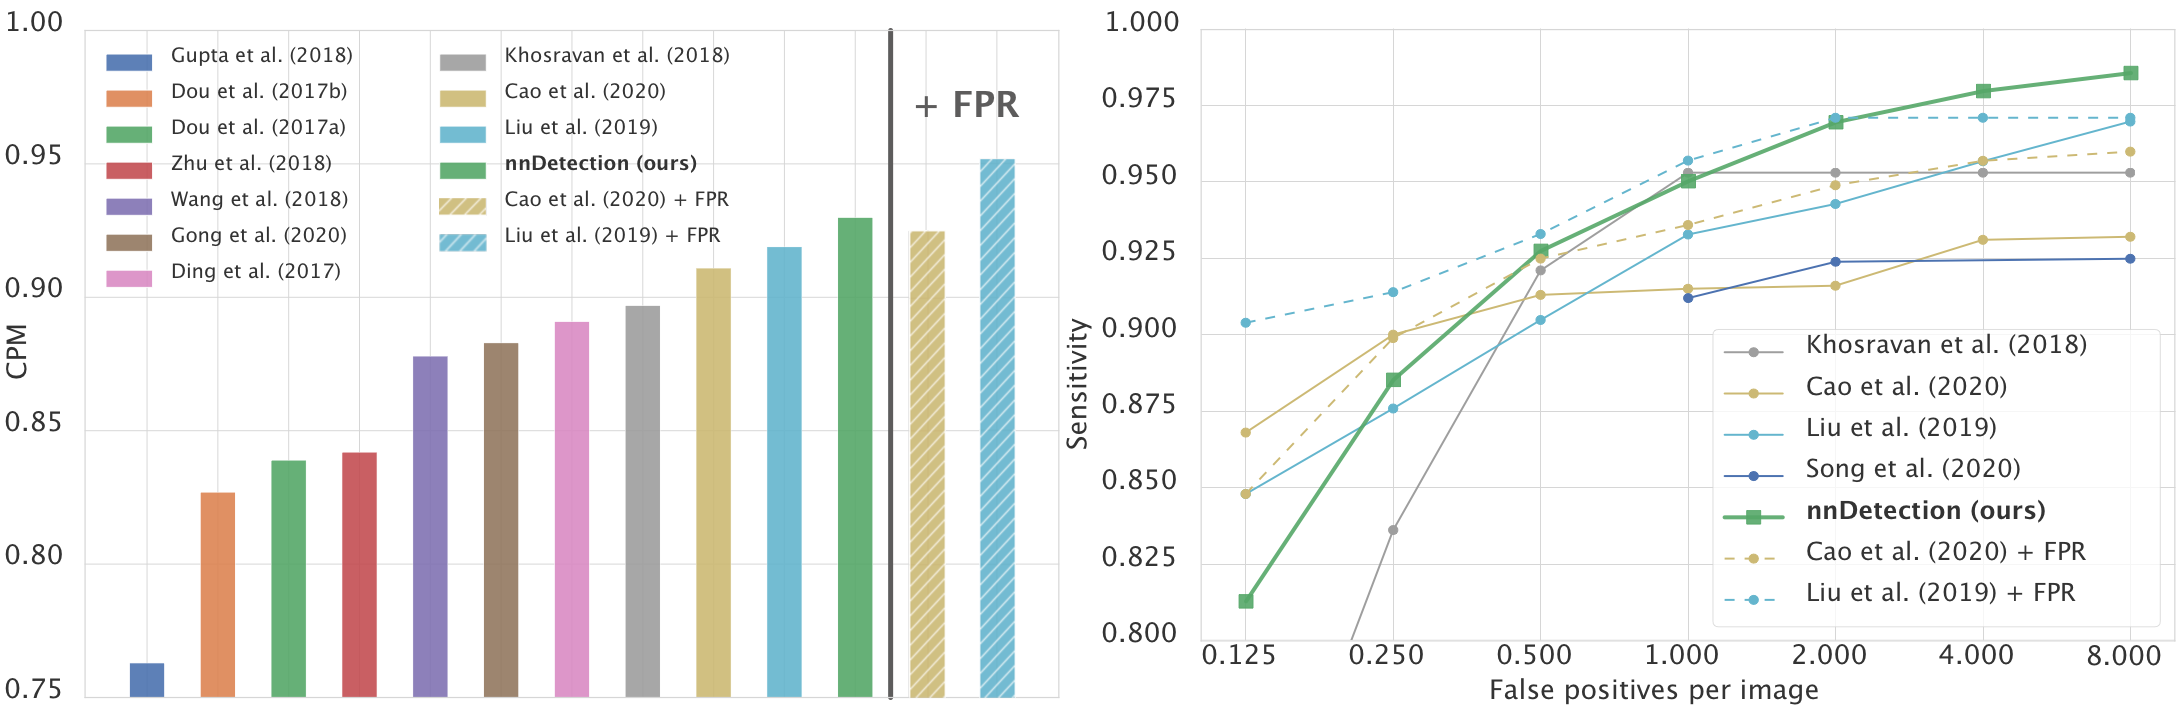
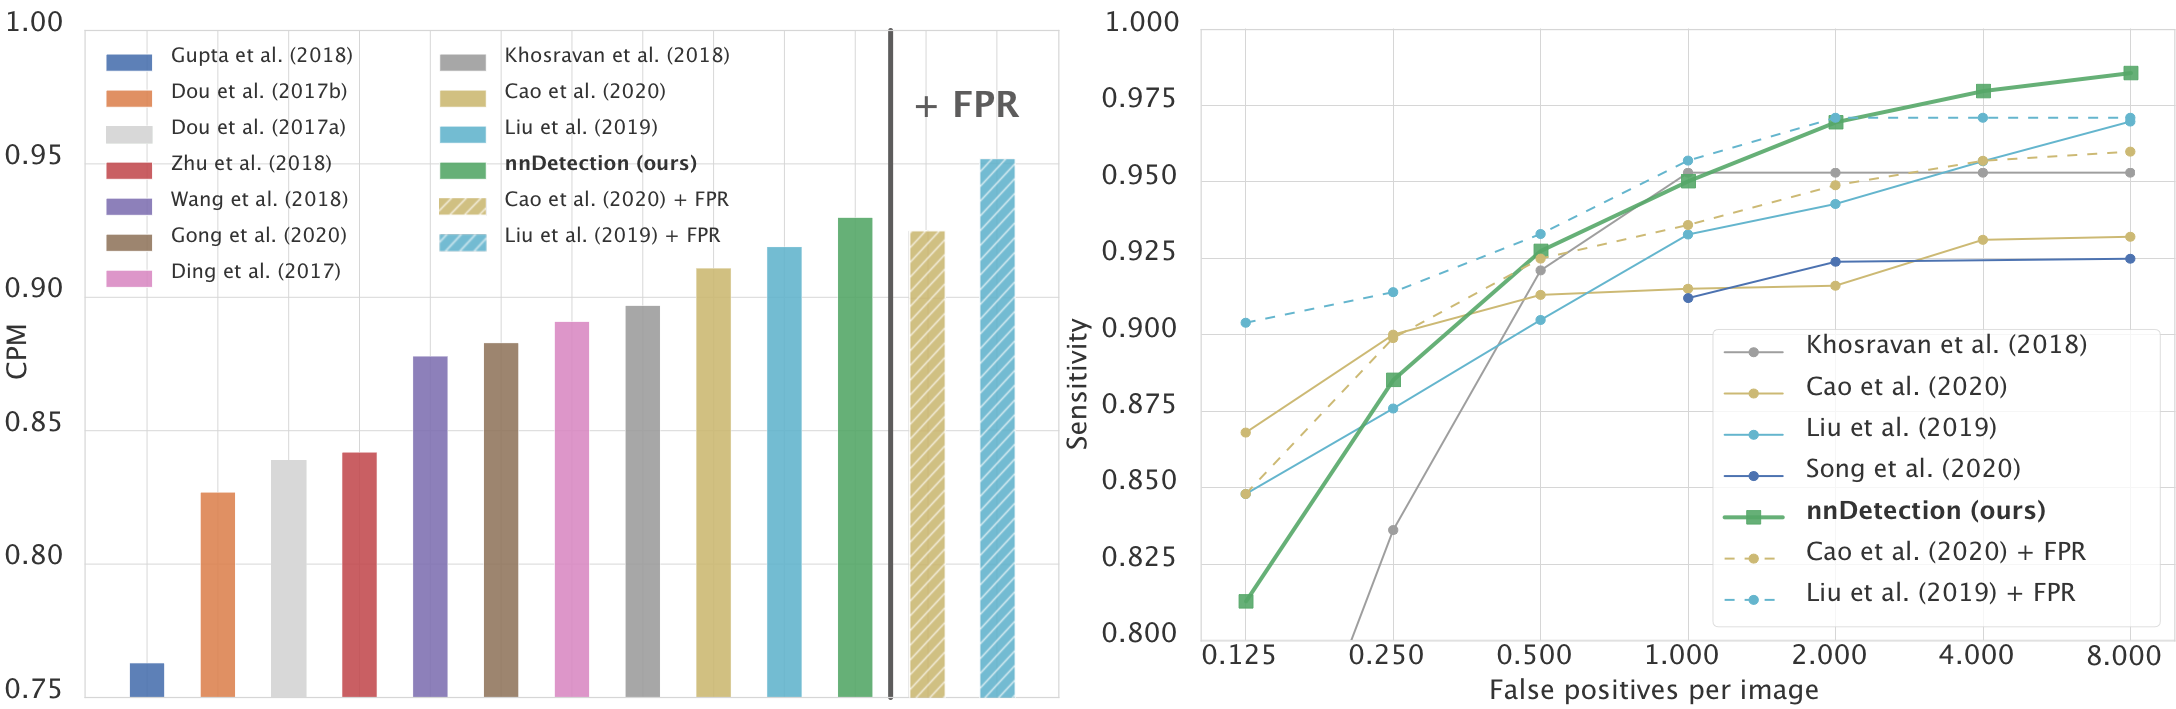
Add detailed Luna results

Changed region(s): [[0.125, 0.6516, 0.1562, 0.9929], [0.0312, 0.1551, 0.0938, 0.2172]]

diff --git a/docs/results/nnDetectionV001.md b/docs/results/nnDetectionV001.md
@@ -72,20 +72,49 @@ Luna results are listed under Benchmarks
 
 ## Benchmarks
 ### Luna
+Disclaimer:
+This overview reflects the literature upon submission of nnDetection (March 2021).
+It will not be updated with newer methods and can not replace a thorough literature research of future work.
 
 <div align="center">
 
 <img src=./source/v001/luna.png width="800px">
 
-| Methods     | 1/8   | 1/4   | 1/2   | 1     | 2     | 4     | 8     | CPM   |
-|:-----------:|:-----:|:-----:|:-----:|:-----:|:-----:|:-----:|:-----:|:-----:|
-| nnDetection | 0.812 | 0.885 | 0.927 | 0.950 | 0.969 | 0.979 | 0.985 | 0.930 |
+| Methods                      | 1/8   | 1/4   | 1/2   | 1     | 2     | 4     | 8     | CPM   |
+|:----------------------------:|:-----:|:-----:|:-----:|:-----:|:-----:|:-----:|:-----:|:-----:|
+Dou et al.   (2017a)           | 0.692 | 0.745 | 0.819 | 0.865 | 0.906 | 0.933 | 0.946 | 0.839 |
+Zhu et al.   (2018)            | 0.692 | 0.769 | 0.824 | 0.865 | 0.893 | 0.917 | 0.933 | 0.842 |
+Wang et al.  (2018)            | 0.676 | 0.776 | 0.879 | 0.949 | 0.958 | 0.958 | 0.958 | 0.878 |
+Ding et al.  (2017)            | 0.748 | 0.853 | 0.887 | 0.922 | 0.938 | 0.944 | 0.946 | 0.891 |
+Khosravan et al. (2018)        | 0.709 | 0.836 | 0.921 | 0.953 | 0.953 | 0.953 | 0.953 | 0.897 |
+Cao et al. (2020)              | 0.868 | 0.900 | 0.913 | 0.915 | 0.916 | 0.931 | 0.932 | 0.911 |
+Liu et al. (2019)              | 0.848 | 0.876 | 0.905 | 0.933 | 0.943 | 0.957 | 0.970 | 0.919 |
+Song et al. (2020)             | 0.723 | 0.838 | 0.887 | 0.911 | 0.928 | 0.934 | 0.948 | 0.881 |
+nnDetection v0.1 (ours, 2021)  | 0.812 | 0.885 | 0.927 | 0.950 | 0.969 | 0.979 | 0.985 | 0.930 |
+*Methods with FPR*<sup>*</sup> |       |       |       |       |       |       |       |       |
+Cao et al. (2020) + FPR        | 0.848 | 0.899 | 0.925 | 0.936 | 0.949 | 0.957 | 0.960 | 0.925 |
+Liu et al. (2019) + FPR        | 0.904 | 0.914 | 0.933 | 0.957 | 0.971 | 0.971 | 0.971 | 0.952 |
+
+<sup>*</sup> Some of the other methods also use FPR stages but the methods listed below report results w. and wo. FPR.
 
 &nbsp;
 
 </div>
 
+#### References (no particular oder)
+- J. Ding, A. Li, Z. Hu, and L. Wang. Accurate pulmonary nodule detection in computed tomography images using deep convolutional neural networks. In MICCAI, pages 559–567. Springer, 2017
+- Q. Dou, H. Chen, Y. Jin, H. Lin, J. Qin, and P.-A. Heng. Automated pulmonary nodule detection via 3d convnets with online sample filtering and hybrid-loss residual learning. In MICCAI, pages 630–638. Springer, 2017
+- N. Khosravan and U. Bagci. S4nd: Single-shot single-scale lung nodule detection. In MICCAI, pages 794–802. Springer, 2018.
+- B. Wang, G. Qi, S. Tang, L. Zhang, L. Deng, and Y. Zhang. Automated pulmonary nodule detection: High sensitivity with few candidates. In MICCAI, pages 759–767. Springer, 2018
+- W. Zhu, C. Liu, W. Fan, and X. Xie. Deeplung: Deep 3d dual path nets for automated pulmonary nodule detection and classification. In WACV, pages 673–681. IEEE, 2018
+- J. Liu, L. Cao, O. Akin, and Y. Tian. 3dfpn-hs: 3d feature pyramid network based high sensitivity and specificity pulmonary nodule detection. In MICCAI, pages 513–521. Springer, 2019
+-  T. Song, J. Chen, X. Luo, Y. Huang, X. Liu, N. Huang, Y. Chen, Z. Ye, H. Sheng, S. Zhang, and G. Wang. CPM-net: A 3d center-points matching network for pulmonary nodule detection in CT scans. In A. L. Martel, P. Abolmaesumi, D. Stoyanov, D. Mateus, M. A. Zuluaga, S. K. Zhou, D. Racoceanu, and L. Joskowicz, editors, MICCAI, pages 550–559. Springer International Publishing
+- H. Cao, H. Liu, E. Song, G. Ma, X. Xu, R. Jin, T. Liu, and C. C. Hung. A twostage convolutional neural networks for lung nodule detection. IEEE Journal of Biomedical and Health Informatics, 24(7):2006–2015, 2020.
+
 ### ADAM Live Leaderboard
+Disclaimer:
+This overview reflects the literature upon submission of nnDetection (March 2021).
+It will not be updated with newer methods and can not replace a thorough literature research of future work.
 
 <div align="center">
 
